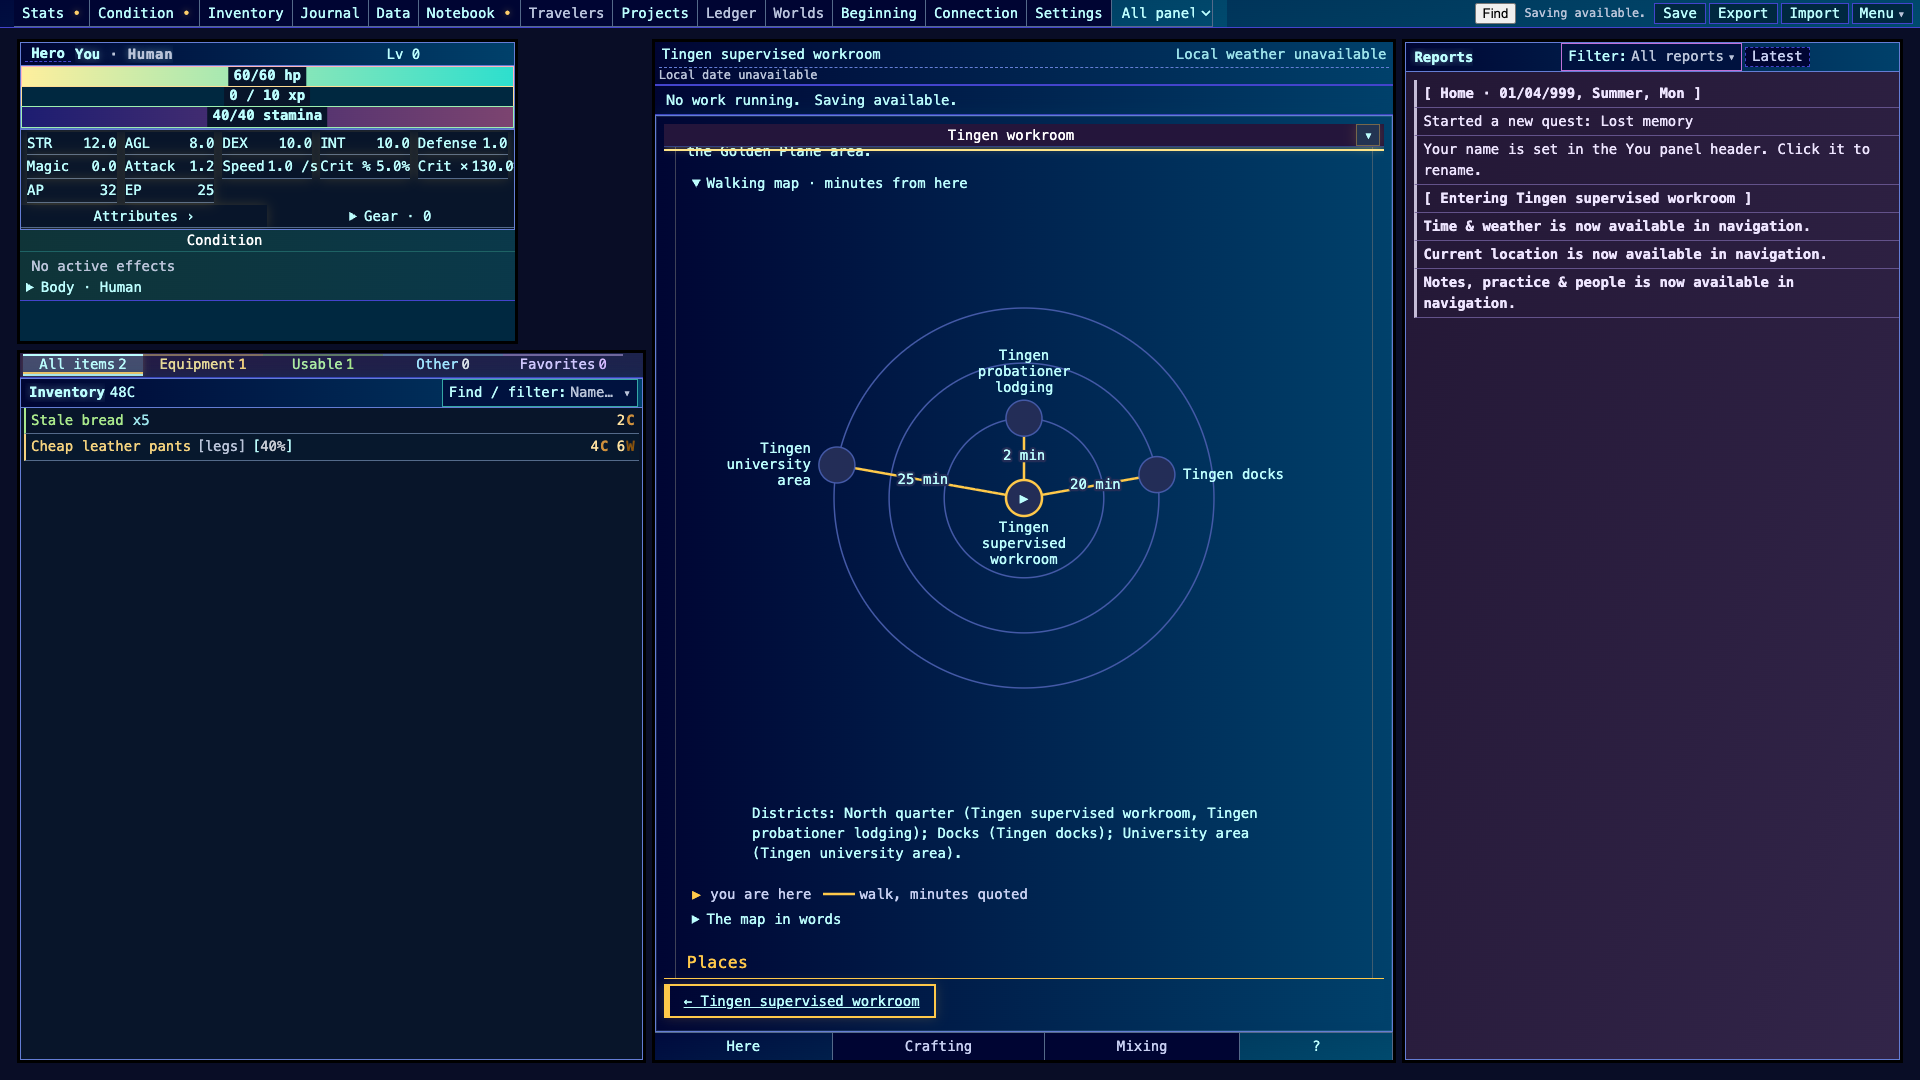
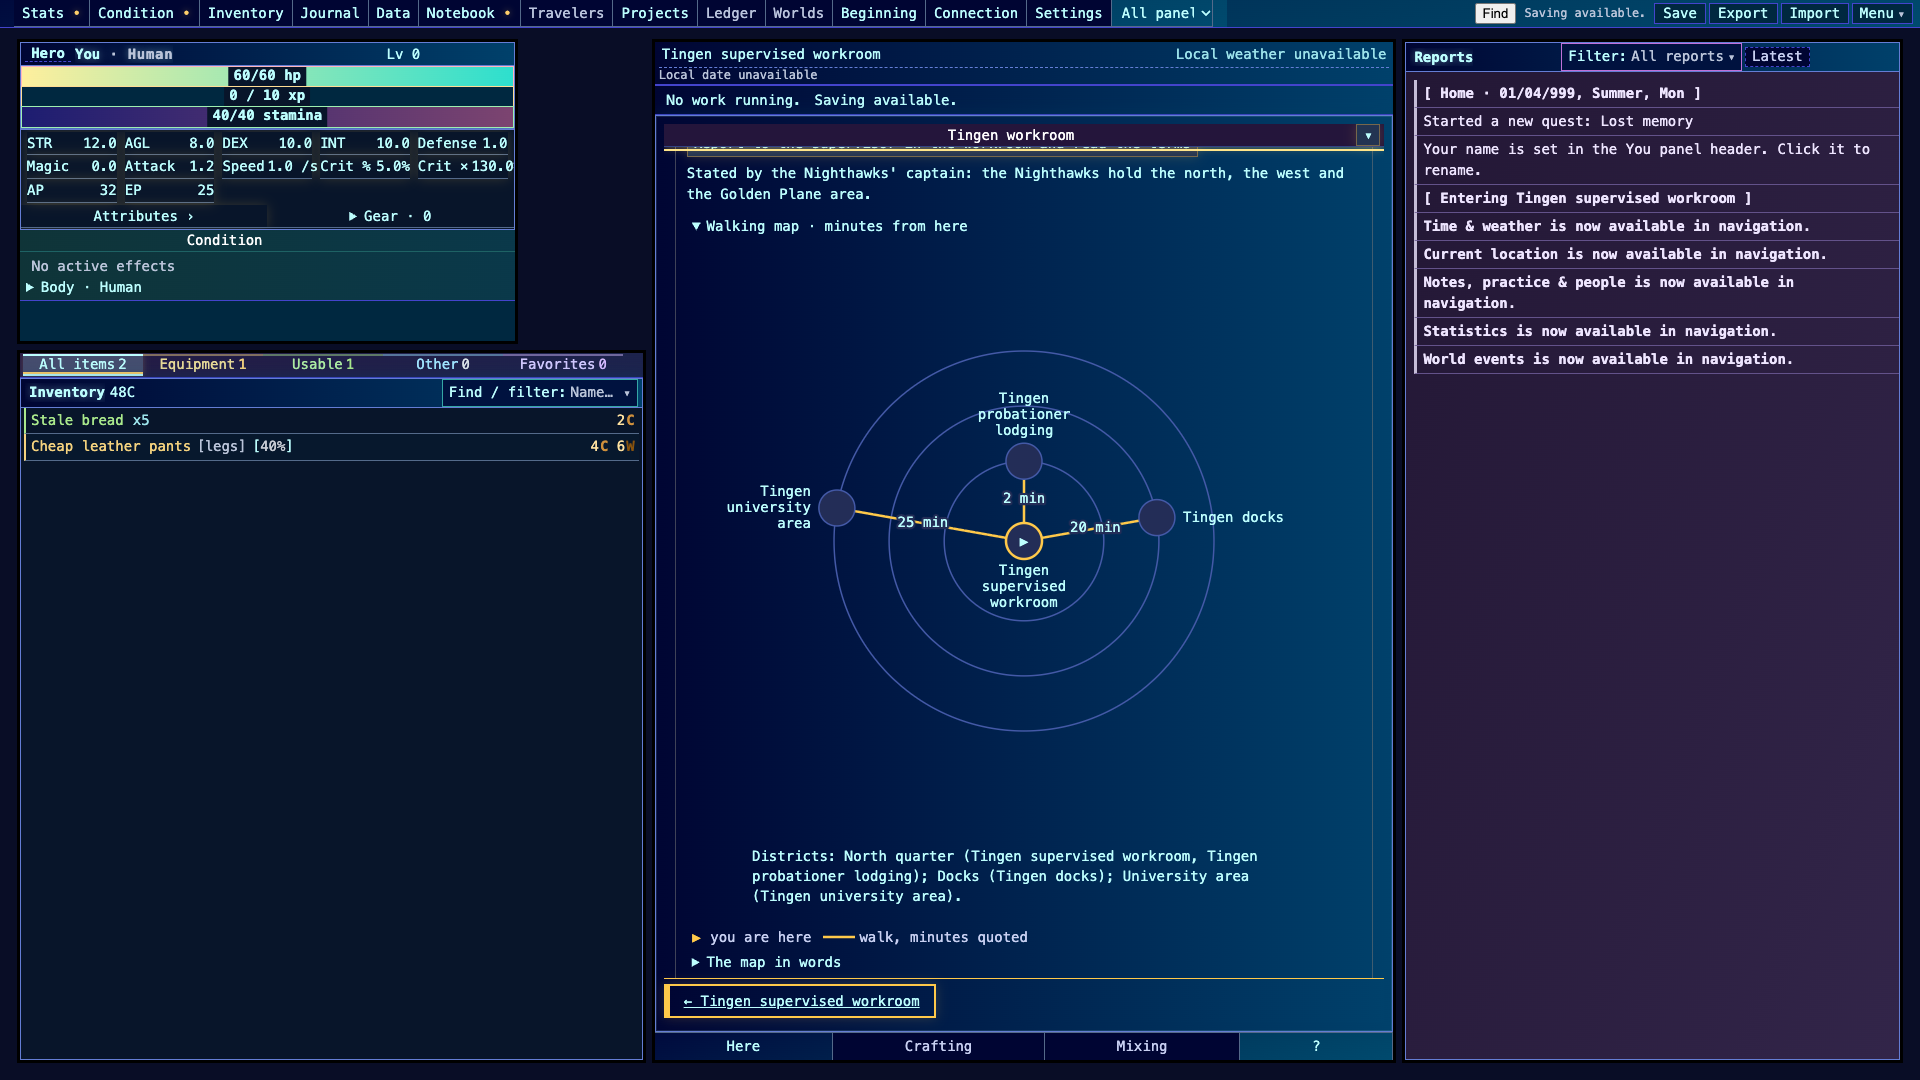
RPX14 walk map receipt: resident-only knowledge filter, MT-F1 scope and lead, site and native exits row, FLR2 partly met; probe reports in before walking
(cherry picked from commit bf3384d96a63eea770b9ce7c0bd3dc7ead8044d6)

diff --git a/docs/representations/MAPS_AND_TRAVEL.md b/docs/representations/MAPS_AND_TRAVEL.md
@@ -10,7 +10,8 @@ here is accepted until Weibao says so (AD32).
 
 - **Reading.** Show where you can go, and how long it takes, from the place you stand, in the
   place's own panel at 1920×1080. Premises: walks already exist as timed jobs with real
-  minutes (district links), and the host already projects only the places this seat knows.
+  minutes (district links). In resident lives the host filters places to what this seat knows;
+  the classic probationer view lists all four Tingen places, as its Places list already does.
 - **Player sentence.** "Walks from the workroom: the lodging is 2 min, the docks 20, the
   university 25. Click one to go to its walk." When a walk cannot run: the place carries a
   `!` mark and the map says why in words.
@@ -32,6 +33,7 @@ here is accepted until Weibao says so (AD32).
 | MT2 | **Walk-time rings around you**: you at the centre, rings step outward by minutes, each known place on its ring with the minutes on the line | Needs no geometry; seat-relative by construction; quotes SUI6 minutes on the drawing itself | Says nothing about direction; two places 20 min away may be on opposite sides of town | **Default** (MT-D1) |
 | MT3 | **Route strip**: one walk as a track of stretches, with the people you passed on the way at your witness level | Makes the route a place (SUI15); natural home for "on the way" meetings and follow mode | Needs a source of who crosses the route; nothing feeds it yet | Second view, for a walk under way or a walk being considered (MT-D3) |
 | MT4 | **Text-art map**: a monospaced block, places as labelled boxes joined by lines with minutes | Cheap, copyable, effects-proof | Duplicates the figure's own text form; layout problems as MT1 | Not built; the figure's text form ("The map in words") already does this job |
+| MT6 | **Other homes**: site rooms and exits (`drainage_site_ui.js` already draws its own room map from `v.map.edges`; `authored_site_ui.js` quotes activity minutes, not travel) and the Village "Move somewhere else" list (`display.js`, native locations, no walk minutes) | One figure for every place surface | Sites have room adjacency, not walking minutes; native travel has no minutes to quote yet | MT-D1 extends to a home only once it quotes travel minutes (SUI6); sites keep their room map, and a later slice can move it onto the MDL2 figure with rings by steps instead of minutes |
 | MT5 | **Day threads** (unusual): time across, places down; each known person's day is a thread through the places, and your reachable window is shaded from your walk minutes | Answers "where can I catch her before noon" in one look; makes schedules and travel one picture; the natural planning view for follow mode (SUI16) | Needs schedule rows projected per seat; heavy for a casual glance | Later, for planning and follow mode (MT-D4) |
 
 ## Defaults (proposed)
@@ -44,8 +46,10 @@ here is accepted until Weibao says so (AD32).
 | MT-D4 | Day threads (MT5) open from a person's usual-place line for planning and follow mode | Threads show only the parts of a day this seat knows; the rest stays blank, not guessed | You learn people's habits by watching or being told, not by reading their diary |
 | MT-D5 | Unknown places stay off the map, without "?" markers. A lead to a place (SR6) can appear as a "?" node joined by a dashed line with no minutes | A world can show "rumoured" places once a lead exists | Knowing that a place exists is different from knowing the way (SR6) |
 
-Seats see only their own knowledge: the figure is built from the host's view, which already
-filters places to what this seat knows; people are drawn only at places the seat knows, and
+Seats see only their own knowledge: the figure draws nothing beyond the host's view. The
+knowledge filter is the host's (`book_world_lotm_host.js`, resident lives only; the classic
+probationer view lists every Tingen place and the map shows the same set as the Places list).
+People are drawn only at places in the view, and
 a person whose usual place is unknown is left off rather than placed at "?" (LTU11, SR9).
 
 ## Slice: walk map in the Tingen place panel (implemented 2026-10-30)
@@ -69,7 +73,7 @@ view; the walk itself stays the existing timed job (SUI14).
 
 | Code | Finding | Owner |
 |---|---|---|
-| MT-F1 | **Every walk in a fresh Tingen probationer life fails in the browser** with "Knowledge needs its actual situation context." (`src/causal_situations.js` via the LOTM host walk). Reproduced on unchanged master `4a83cac9a` with the map code removed, so not caused by this slice; `tests/lotm_districts.test.js` passes because its state lacks whatever knowledge row the browser start writes. The walk map's click lands on the walk button correctly; the walk then fails. | LOTM host owner (`src/book_world_lotm_host.js`, off-limits to this lane) |
+| MT-F1 | **Every walk in a fresh Tingen probationer life without the private pack fails in the browser** with "Knowledge needs its actual situation context." (`src/causal_situations.js` via the LOTM host walk), before and after reporting in. Reproduced on unchanged master `4a83cac9a` with the map code removed, so not caused by this slice. Lead, not a diagnosis: walk arrival records use `know()` in `book_world_lotm_kit.js`, which cites `I.situation`; that situation begins only at `report_in` (`book_world_lotm_actions.js`), and the browser failure persists after report-in, so something else in the browser state is also missing. Guess: `tests/lotm_districts.test.js` passes because its state differs from the browser start. The map's click lands on the walk button correctly; the walk then fails. | LOTM host owner (`src/book_world_lotm_host.js`, off-limits to this lane) |
 | MT-F2 | The host view does not yet carry people's usual places for a seat. The adapter accepts `people` rows and the gallery shows them; the game does not feed them yet. | Next slice, needs a host or cast-host read |
 | MT-F3 | `figureText` writes "1 places" for a one-member ring. Shared primitive, not changed here. | Figure owner |
 | MT-F4 | `index.html` did not link `styles/figure.css`, so no in-game figure was styled. This lane adds the one link line; sibling lanes need the same line. | Coordinator merge |
@@ -86,7 +90,7 @@ Files (all this lane's own unless noted):
   (one import, one spread into the fixture loop).
 - `tests/walk_map.test.js` (new), `scripts/playtest/walk-map-probe.mjs` (new).
 - Evidence: `docs/representations/evidence/maps/` (`walk-map-1920.png` live panel,
-  `walk-map-figure.png`, `walk-map-after-walk-1920.png`, `walk-map-probe.json`,
+  `walk-map-figure.png`, `walk-map-walk-attempt-1920.png` (walk refused), `walk-map-probe.json`,
   `gallery-*.png`).
 
 Change surface (FND2): no core-owner file, no `main.js` line, no new import cycle.
@@ -99,7 +103,7 @@ Checks:
   views draw, click maps to the walk command).
 - `node scripts/playtest/walk-map-probe.mjs docs/representations/evidence/maps`: pass on
   bundle `b2dddedfd7fd8ac3` (same as `npm run build` output), 1920×1080, fresh origin, no
-  private pack: Village → Tingen probationer start → map shown with text form → clicking the
+  private pack: Village → Tingen probationer start → report in → map shown with text form → clicking the
   25-min place focuses "Walk to … · 25 min" → walk refused by MT-F1.
 - Gallery headless capture at 1920×1080: no page errors, both themes.
 - `npm run check:arch`: pass (growth 0). `npm run check:rules`: pass, 5 existing warnings.
@@ -109,7 +113,7 @@ Checks:
   (`cast_body_adapter`, `place_acts`: 2 fail either way), so none traces to this slice.
 
 AD43 floor: FLR1 met (bundle `b2dddedfd7fd8ac3`). FLR2 met (fresh life by earned steps,
-headless browser; MCP walk not run). FLR3 met (text form, minutes, blocked reason in
+headless browser; partly met, since the MCP walk was not run: the game MCP serves the primary checkout, not this worktree). FLR3 met (text form, minutes, blocked reason in
 words). FLR4 met in part: the click reaches the real walk control, but the walk itself
 fails on MT-F1. FLR5 not applicable (no persistence change). FLR6: agent-verified, not
 human-reviewed; route kind fresh life, rebuilt headless browser. State: **implemented,
